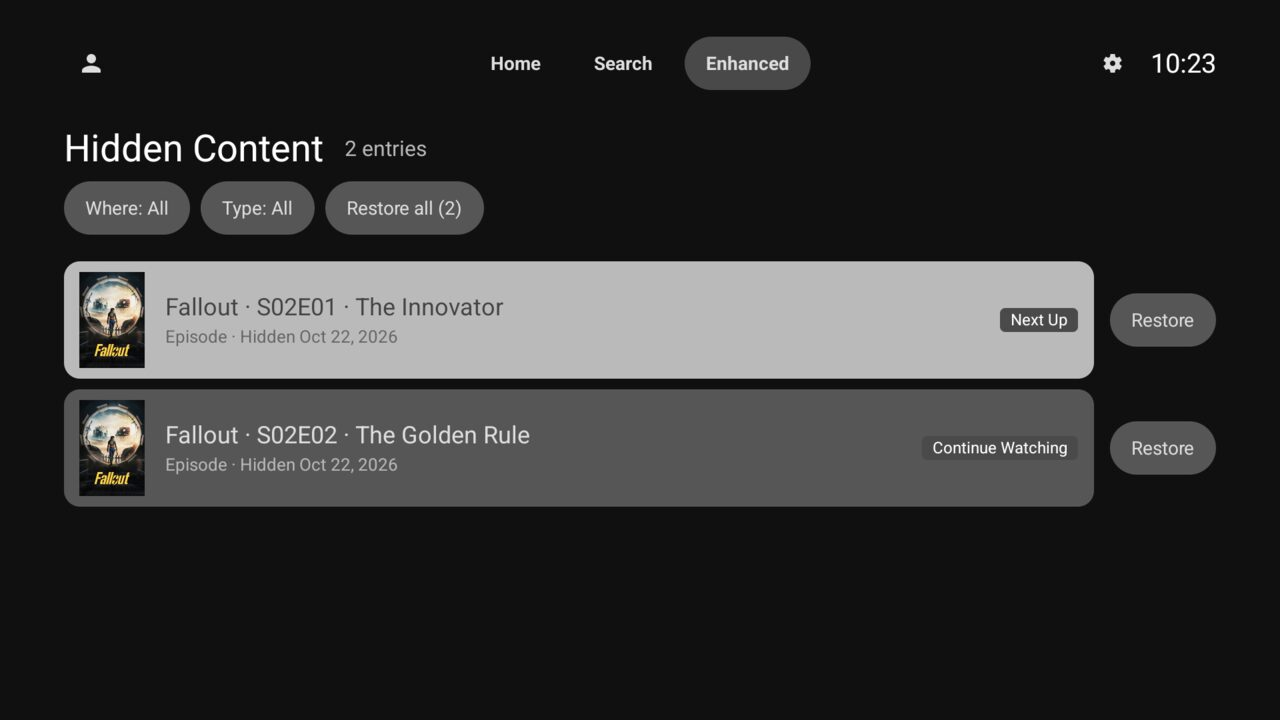
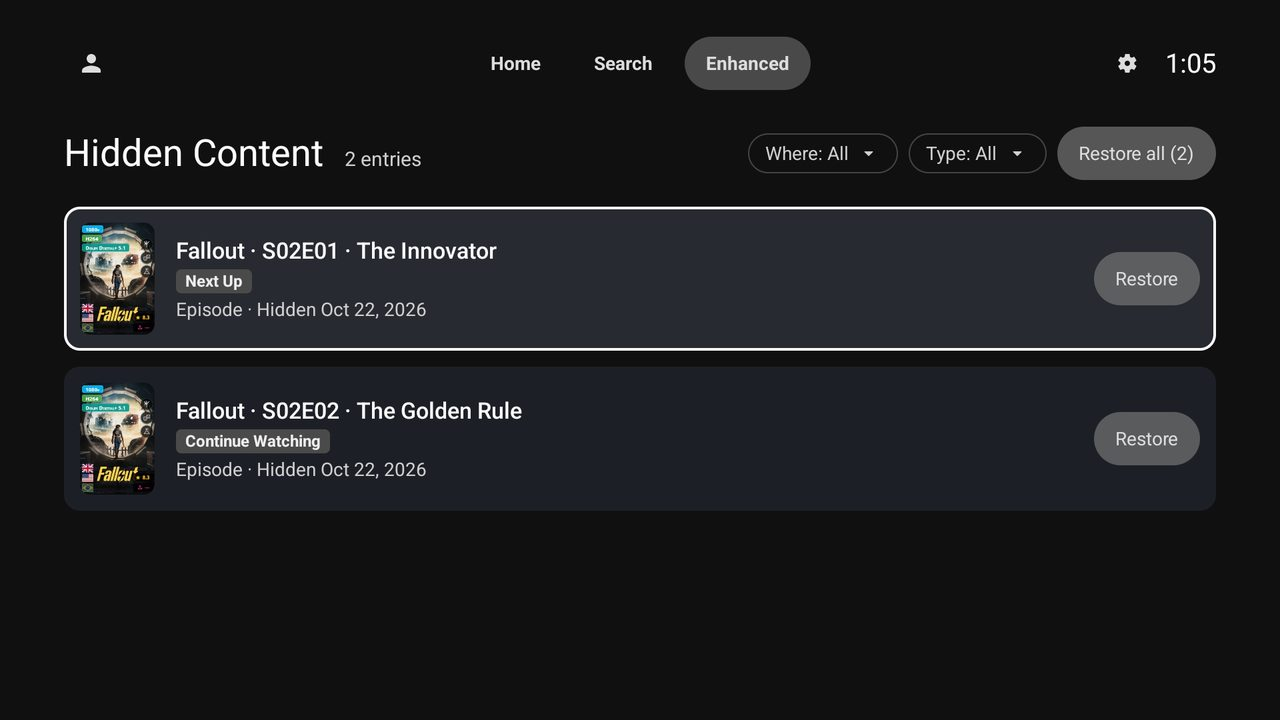
docs(enhanced): screenshots of the Native+ redesign; design system section

diff --git a/ENHANCED.md b/ENHANCED.md
@@ -145,8 +145,8 @@ toggle; a page that is turned off on the server shows a focused Back.
 
 ## Screenshots
 
-Taken on the Android TV emulator against the lab server (Jellyfin 12.1, JE 12.13, Seerr) on 3 November 2026, except
-the four marked "22 Oct", which are from the first release and still match.
+Taken on the Android TV emulator against the lab server (Jellyfin 12.1, JE 12.13, Seerr). The screens of the Native+
+redesign were retaken on 4 November 2026; the four marked "22 Oct" are from the first release and still match.
 
 | | |
 |---|---|
@@ -157,6 +157,7 @@ the four marked "22 Oct", which are from the first release and still match.
 | ![Hide on a Seerr card](docs/enhanced/seerr-card-hide.jpg) Hide in a Seerr card's menu | ![Discovery grid](docs/enhanced/discovery-grid.jpg) Seerr discovery for an actor (22 Oct) |
 | ![Seerr movie details](docs/enhanced/seerr-details-movie.jpg) Seerr details: ratings, awards, where to watch, cast | ![Seerr show details](docs/enhanced/seerr-details-show.jpg) Seerr details of a show: Request more, Report a problem, requester, seasons |
 | ![Request more](docs/enhanced/request-more-seasons.jpg) Requesting the missing seasons | ![Details overflow](docs/enhanced/details-other-options.jpg) Hide, More from…, Rate, Add bookmark and Report a problem in "Other options" |
+| ![Enhanced info](docs/enhanced/details-enhanced-info.jpg) The Enhanced info row under the details buttons | ![Bookmark rename](docs/enhanced/bookmark-rename.jpg) Renaming a bookmark |
 | ![More from menu](docs/enhanced/more-from-menu.jpg) "More from…" lists cast, crew, genres, studios and tags (22 Oct) | ![Person row](docs/enhanced/person-more-from-row.jpg) "More from" row on a cast page (22 Oct) |
 | ![Rate](docs/enhanced/rate-dialog.jpg) Rating a title | ![Remove from Continue Watching](docs/enhanced/remove-from-continue-watching.jpg) Card menu on Continue Watching (22 Oct) |
 | ![Requests](docs/enhanced/requests.jpg) Requests with Approve/Decline | ![Calendar](docs/enhanced/calendar.jpg) Calendar |
@@ -170,6 +171,17 @@ the four marked "22 Oct", which are from the first release and still match.
 | ![Spoiler Guard settings](docs/enhanced/settings-spoiler-guard.jpg) Spoiler Guard categories | ![Details & tags settings](docs/enhanced/settings-details.jpg) Details & tags |
 | ![Playback settings](docs/enhanced/settings-playback.jpg) Playback settings | ![Subtitle style](docs/enhanced/settings-subtitle-style.jpg) Subtitle style sync |
 | ![About](docs/enhanced/settings-about.jpg) About as an admin: Seerr linked, "Import Jellyfin users into Seerr" | ![What's New](docs/enhanced/whats-new.jpg) What's New for admins |
+
+## Design system
+
+All Jellyfin Enhanced screens are built from one component set in
[1 lines of base64/hex data omitted]
+and `org.jellyfin.design.Tokens` so the screens match the stock app without restyling it. It provides the colour,
+type and spacing tokens, a status palette for request, issue and season states, and one focus rule: buttons and
+chips invert on focus, rows and anything with artwork get a white ring. Components include page and hero scaffolds,
+list rows, media, hub and season cards, tab rows and filter chips with counts, status badges, buttons, empty, error
+and loading states, notices, dialogs (choice, confirm, text input), settings rows and player overlay styles. The
+catalogue, the focus rule and an old-helper-to-component map are in `ui/design/README.md`.
 
 ## Upstream hooks
 

diff --git a/README.md b/README.md
@@ -8,6 +8,10 @@
 
 <p align="center"><img src="docs/enhanced/hub.jpg" alt="The Enhanced hub" width="800"/></p>
 
+Every Jellyfin Enhanced screen shares one design system built on the stock app's own theme: the same focus style
+everywhere, tabs and filter chips that show counts and make the selected one obvious, one status palette for
+requests and seasons, and backdrop-led pages for Seerr details and Catch Up.
+
 Everything the stock app does still works exactly the same. The extra screens, rows and buttons only appear when your
 server runs the [Jellyfin Enhanced](https://github.com/n00bcodr/Jellyfin-Enhanced) plugin and the feature is switched
 on there. On a server without the plugin the app looks and behaves like stock. It installs as its own app
@@ -60,10 +64,10 @@ Requests are standard quality only, by design.
 
 | | |
 |---|---|
-| ![Details overflow](docs/enhanced/details-other-options.jpg) Hide, More from…, Rate, Add bookmark and Report a problem join the details buttons | ![Rate](docs/enhanced/rate-dialog.jpg) Rate with half stars and write a review; reviews from Jellyfin Enhanced users, AniList and TMDB show in a reader with optional translation |
+| ![Enhanced info](docs/enhanced/details-enhanced-info.jpg) An **Enhanced info** row right under the buttons: watch progress, file size, audio languages, release dates, IMDb and Rotten Tomatoes, awards and where it streams | ![Details overflow](docs/enhanced/details-other-options.jpg) Hide, More from…, Rate, Add bookmark and Report a problem join the details buttons |
+| ![Rate](docs/enhanced/rate-dialog.jpg) Rate with half stars and write a review; reviews from Jellyfin Enhanced users, AniList and TMDB show in a reader with optional translation | ![Bookmark rename](docs/enhanced/bookmark-rename.jpg) Bookmarks can be renamed or deleted from their ⋯ menu |
 
-Details pages also gain an **Enhanced info** row (watch progress, file size, audio languages, release dates, IMDb,
-Rotten Tomatoes and other ratings, awards), cast ages, DoesTheDogDie content warnings and a "Streaming in…" row.
+Details pages also gain cast ages, DoesTheDogDie content warnings and a reviews row further down.
 
 ### Player
 
